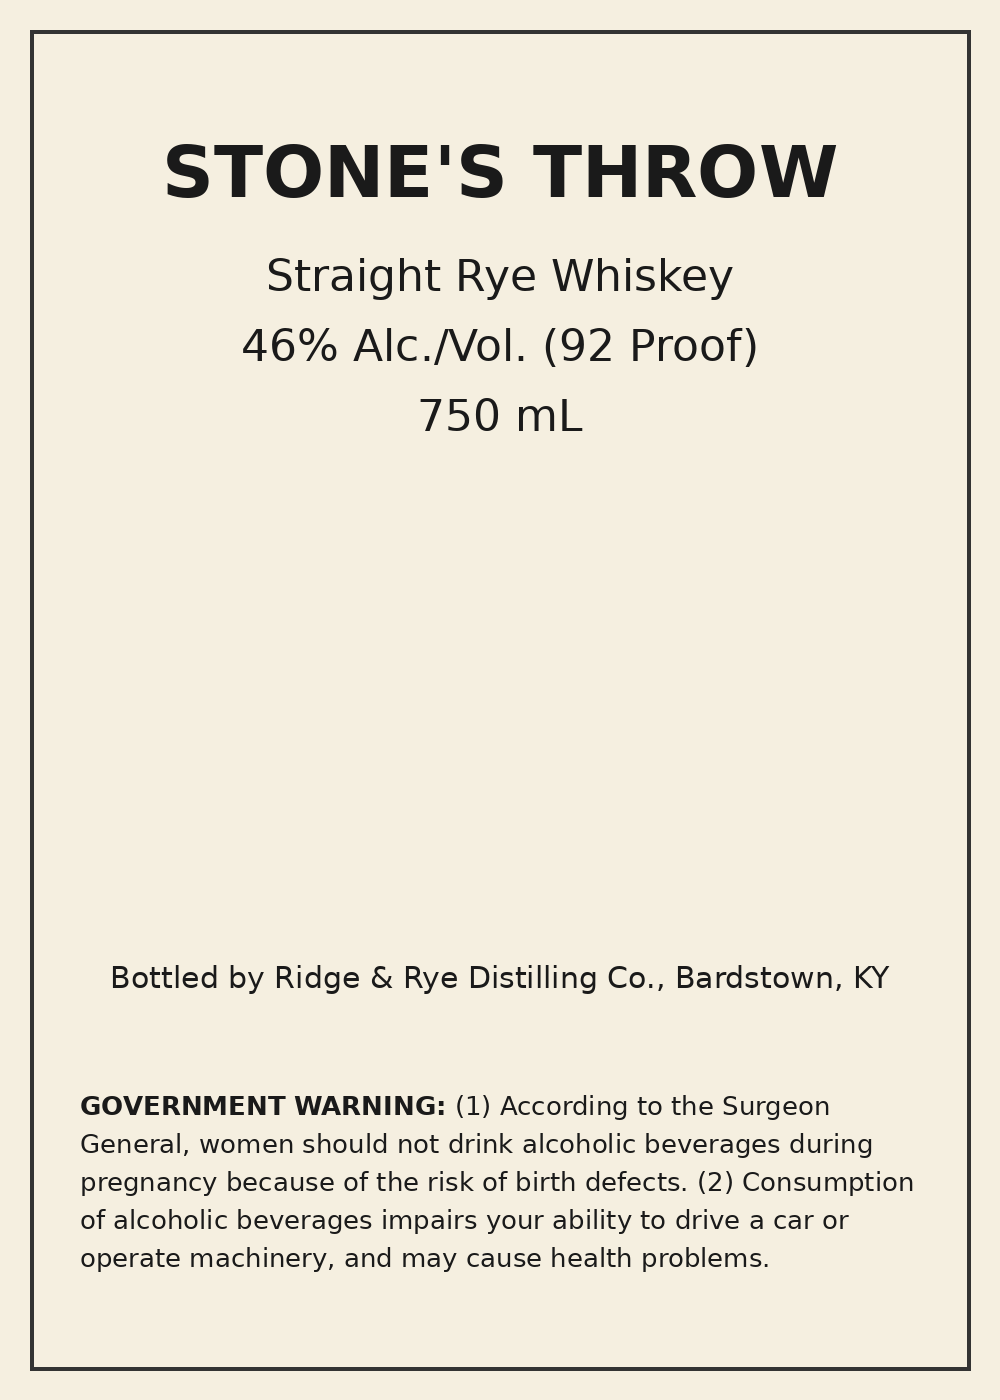
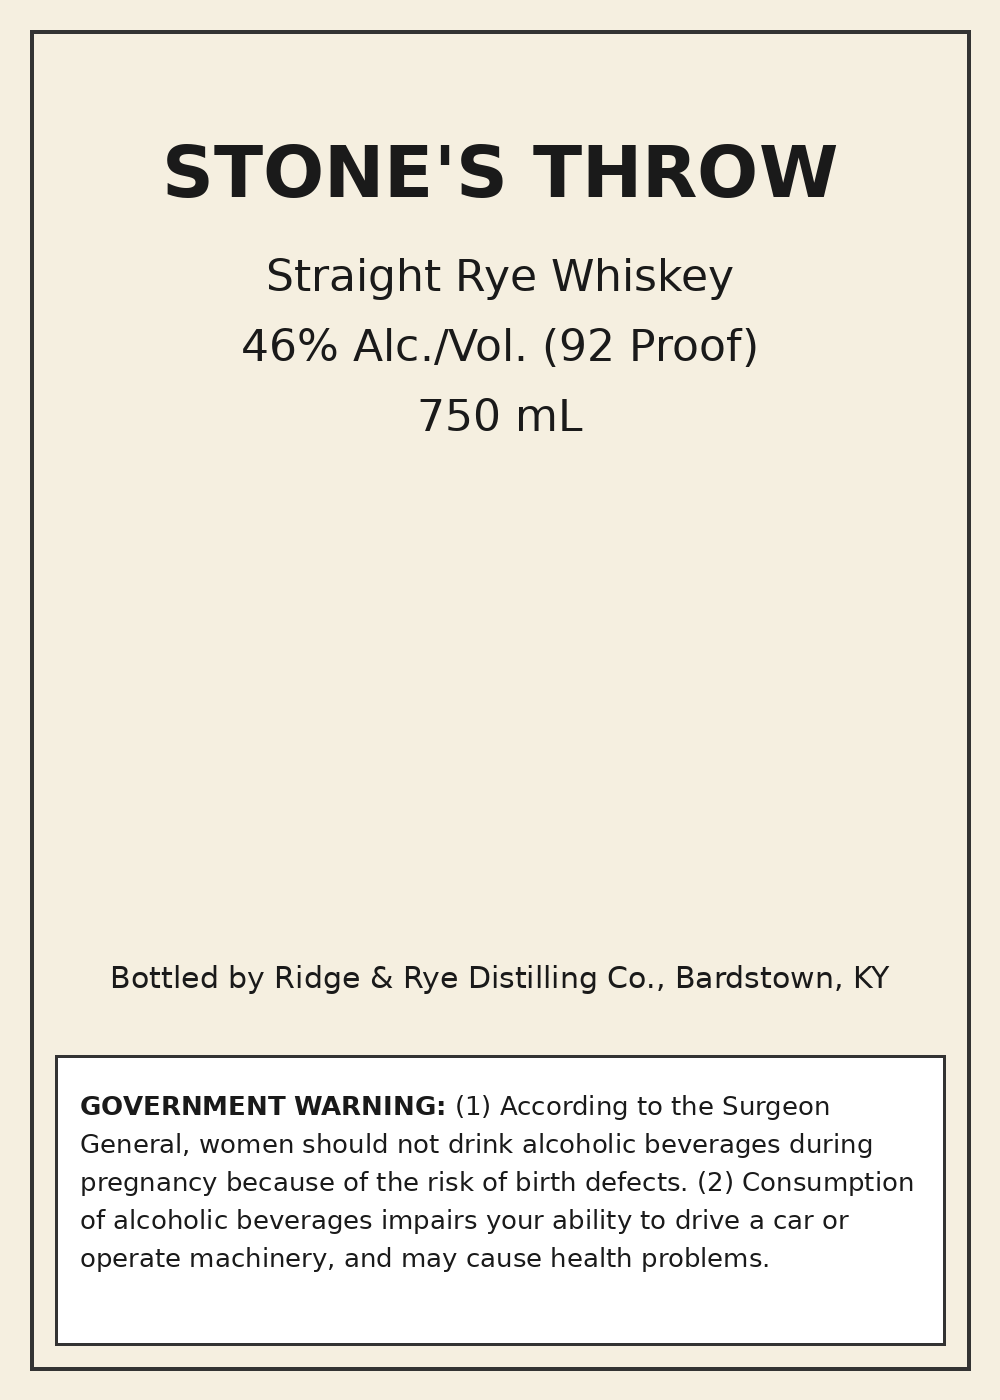
fix: harden extraction prompt and corpus for reliable live verdicts

Changed region(s): [[0.031, 0.7371, 0.961, 0.9829]]

diff --git a/backend/ttb/vision/claude.py b/backend/ttb/vision/claude.py
@@ -45,9 +45,16 @@ Return ONLY a JSON object, no other text, in exactly this shape:
 Rules:
 - "alcohol_content" and "net_contents" are the verbatim label text, \
 for example "45% Alc./Vol. (90 Proof)" and "750 mL".
-- Transcribe "warning_text" EXACTLY as printed, preserving capitalization and \
-punctuation. Never correct or normalize it.
+- Transcribe every text value ("brand_name", "class_type", "name_address", \
+"warning_text", and the rest) EXACTLY as printed, preserving the original \
+capitalization and punctuation. If the label prints "STONE'S THROW" in capital \
+letters, return "STONE'S THROW", not "Stone's Throw". Never normalize, correct, \
+title-case, or tidy the text; a compliance check depends on the literal casing.
 - Use null for anything not present on the label. Never guess.
+- For "country_of_origin", report a country ONLY if the label prints an explicit \
+origin statement (for example "Product of Scotland" or "Imported from France"). \
+Do NOT infer it from the brand, the producer address, or the product style; words \
+like "Scotch", "Cognac", or "Tequila" are NOT a country-of-origin statement.
 - Each "confidence" is how clearly you can read that field in THIS image.
 - "overall_readability": 1.0 means crisp and fully readable; below 0.4 means \
 too blurry, glared, or angled to trust.

diff --git a/corpus/render_labels.py b/corpus/render_labels.py
@@ -82,6 +82,9 @@ def render_label(
         y += 44
 
     if warning:
+        # Warning sits in a white panel with a border so it reads as legible
+        # on a contrasting background, separate and apart (27 CFR 16.22).
+        d.rectangle([55, H - 345, W - 55, H - 55], fill="#ffffff", outline="#333333", width=3)
         wfont = ImageFont.truetype(REGULAR, 26)
         wbold = ImageFont.truetype(BOLD, 26)
         head, sep, rest = warning.partition(":")
